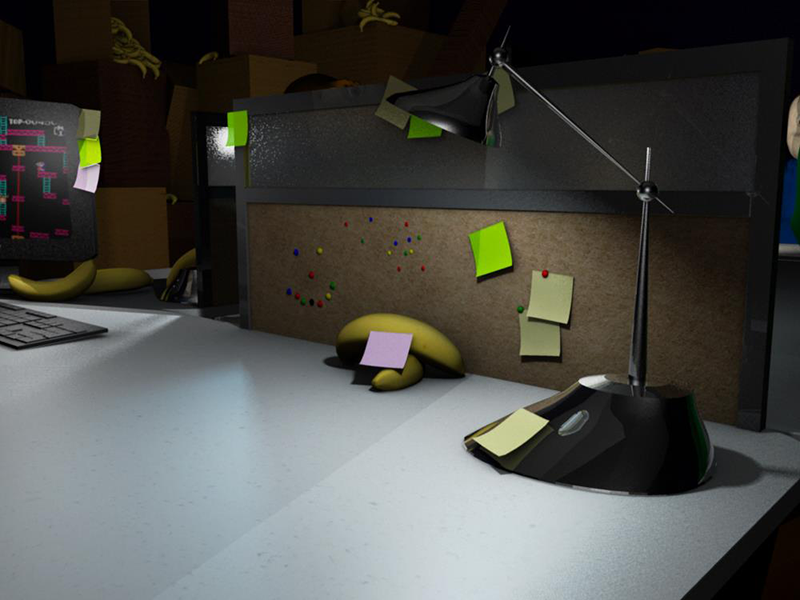
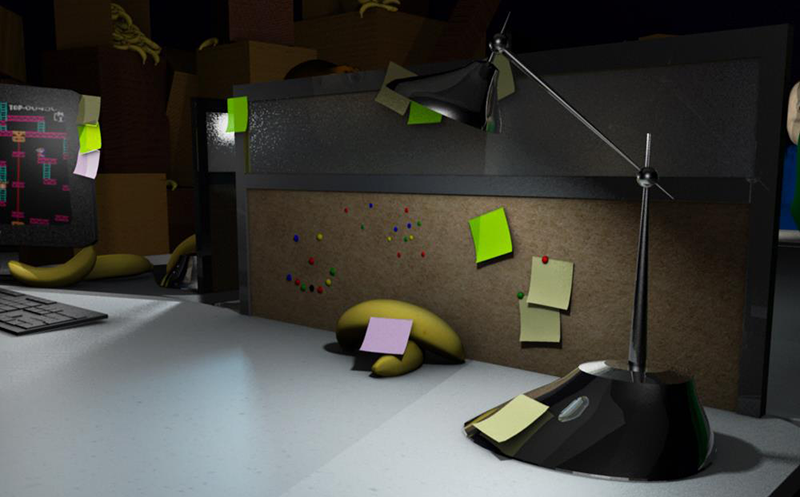
Added event listener for left/right arrows

diff --git a/pages/art.js b/pages/art.js
@@ -29,6 +29,27 @@ export default function Art() {
         setFullScreenArtObject(x);
     }
 
+    const hasWindow = typeof window !== 'undefined';
+
+
+    if(hasWindow){
+        useEffect(() => {
+            if (hasWindow) {
+                function handleKeyPress(e) {
+                    if(e.key === 'ArrowRight'){
+                        updatePosition(1);
+                    } 
+                    if(e.key === 'ArrowLeft'){
+                        updatePosition(-1);
+                    }
+                }
+    
+                window.addEventListener('keydown', handleKeyPress);
+                return () => window.removeEventListener('keydown', handleKeyPress);
+            }
+        });
+    }
+
     return (
         <div className="text-zinc-700 font-ss pt-20 max-w-3xl mx-auto flex flex-col justify-center p-6 md:pb-0">
             <Head>
@@ -61,11 +82,6 @@ export default function Art() {
 function ArtObjectNavigation(props) {
     function handleEvent(x) {
         props.updateActive(x);
-    }
-
-    function handleKeyPress(key) {
-        var k = key.key;
-        console.log("hello");
     }
 
     return (
@@ -306,7 +322,7 @@ const artArray = [
             {
                 url: "/static/img/art/code monkeys_2.png",
                 width: 800,
-                height: 600,
+                height: 497,
                 alt: "Close-up of a code monkey desk.",
                 id: 8
             }
